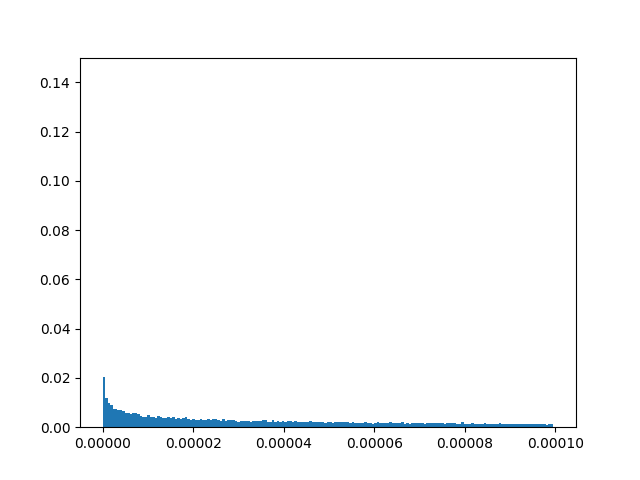
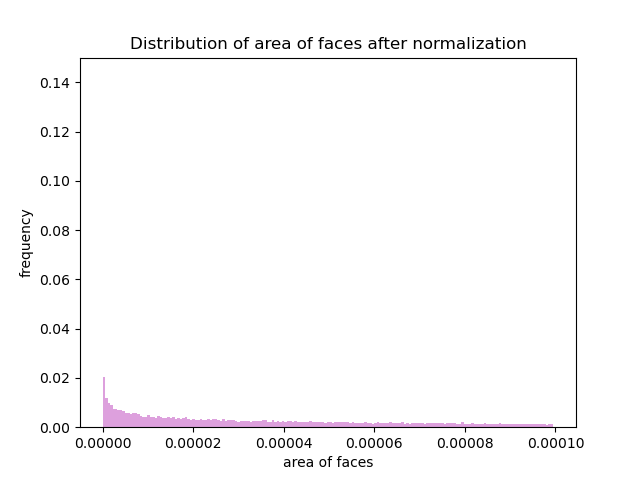
labelled face area plots

diff --git a/face_area_plots.py b/face_area_plots.py
@@ -11,12 +11,18 @@ def plot_face_area(dataset_original, dataset_remeshed):
         print("Writing another very big face area csv")
 
     df = pd.read_csv("csv/{}_face_area.csv".format(dataset_original.folder_name_dataset))
-    plt.hist(df, bins=np.arange(0, 1e-4, 5.5e-7), weights=np.ones(len(df)) / len(df))
+    plt.hist(df, color='plum', bins=np.arange(0, 1e-4, 5.5e-7), weights=np.ones(len(df)) / len(df))
     plt.ylim([0,0.15])
+    plt.xlabel('area of faces')
+    plt.ylabel('frequency')
+    plt.title("Distribution of area of faces before normalization")
     plt.savefig("resample_plots/face_areas_before")
     plt.clf()
 
     df2 = pd.read_csv("csv/{}_face_area.csv".format(dataset_remeshed.folder_name_dataset))
-    plt.hist(df2, bins=np.arange(0, 1e-4, 5.5e-7), weights=np.ones(len(df2)) / len(df2))
+    plt.hist(df2, color='plum', bins=np.arange(0, 1e-4, 5.5e-7), weights=np.ones(len(df2)) / len(df2))
     plt.ylim([0,0.15])
+    plt.xlabel('area of faces')
+    plt.ylabel('frequency')
+    plt.title("Distribution of area of faces after normalization")
     plt.savefig("resample_plots/face_areas_after")
